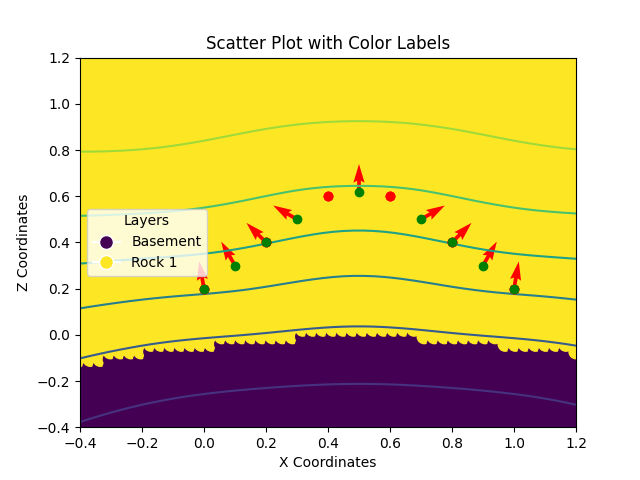
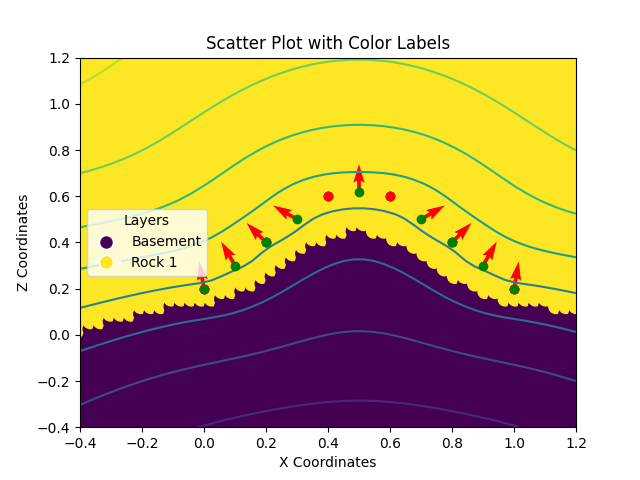
new- transformation not applied to gradient values

diff --git a/pyvista_gempy_local_anisotropy.py b/pyvista_gempy_local_anisotropy.py
@@ -307,7 +307,7 @@ class Gempy(grid):
         
         ## defining the dips position
         self.Position_G = self.op_coord["Positions"].to(self.dtype) # Location where Dips or gradient are given
-        self.Value_G    = self.op_coord["Values"].to(self.dtype) @ self.Transformation_matrix.T # Gx, Gy, ..., Gk are the componet of gradient available at the given location
+        self.Value_G    = self.op_coord["Values"].to(self.dtype)     # @ self.Transformation_matrix.T # Gx, Gy, ..., Gk are the componet of gradient available at the given location
        
         n= self.Position_G.shape[0] # Total number of points available for gradient or dips
         k = self.Position_G[0].shape[0] # Total number of component available for the gradient
@@ -953,7 +953,7 @@ def main():
     Transformation_matrix = torch.diag(torch.tensor([1,1,1,0.05],dtype=torch.float32))
 
     gp = Gempy("Gempy_test", 
-               extent=[-0.4,1.2,-0.4,1.2,-0.4,1.2, 0,10],
+               extent=[-0.4,1.2,-0.4,1.2,-0.4,1.2, 0,5],
                 resolution=[50, 50, 50, 2]
                )
 
@@ -998,19 +998,19 @@ def main():
     ]) / 1000, 
     
     "Values": torch.tensor([
-        [0.0, 0.0, 1.0, 3.0],       
+        [0.0, 0.0, 1.0, 0.30],       
         
-        [-0.866, 0.0, 0.5, 2.5],    
-        [ 0.866, 0.0, 0.5, 2.5],    
+        [-0.866, 0.0, 0.5, 0.25],    
+        [ 0.866, 0.0, 0.5, 0.25],    
         
-        [-0.707, 0.0, 0.707, 2.0],  
-        [ 0.707, 0.0, 0.707, 2.0], 
+        [-0.707, 0.0, 0.707, 0.20],  
+        [ 0.707, 0.0, 0.707, 0.20], 
         
-        [-0.5, 0.0, 0.866, 1.5],    
-        [ 0.5, 0.0, 0.866, 1.5],   
+        [-0.5, 0.0, 0.866, 0.15],    
+        [ 0.5, 0.0, 0.866, 0.15],   
         
-        [-0.174, 0.0, 0.985, 1.0],  
-        [ 0.174, 0.0, 0.985, 1.0]   
+        [-0.174, 0.0, 0.985, 0.10],  
+        [ 0.174, 0.0, 0.985, 0.10]   
     ])}
 
     gp.interface_data(interface_data)
@@ -1035,10 +1035,10 @@ def main():
     #########################################################################
 
     ##### FOR 2D matplotlib #####
-    # import time
-    # for t in [-0.5, 0, 0.5, .75, 1.0, 1.25, 1.5, 1.75, 2.0, 2.25, 2.5, 3, 3.5, 4,4.5]:
-    #     gp.plot_data_section(section={2:0.5, 4:t}, plot_scalar_field = True, plot_input_data=True)
-    #     time.sleep(1)
+    import time
+    for t in [-0.5, 0, 0.5, .75, 1.0, 1.25, 1.5, 1.75, 2.0, 2.25, 2.5, 3, 3.5, 4,4.5]:
+        gp.plot_data_section(section={2:0.5, 4:t}, plot_scalar_field = True, plot_input_data=True)
+        time.sleep(1)
 
 
     ##### FOR 3D matplotlib #####
@@ -1057,8 +1057,8 @@ def main():
     ########### show/unshow surface or interfaces using "only_surface_mode" argument
     ###############################################################
 
-    print("\nStarting Interactive Visualization...")
-    gp.plot_interactive_section(plot_input_data = True, only_surface_mode = False)
+    # print("\nStarting Interactive Visualization...")
+    # gp.plot_interactive_section(plot_input_data = True, only_surface_mode = False)
 
 
 if __name__ == "__main__":

diff --git a/Ex-4 Single flat layer compression by only using time gradients (Gt).py b/Ex-4 Single flat layer compression by only using time gradients (Gt).py
@@ -307,7 +307,7 @@ class Gempy(grid):
         
         ## defining the dips position
         self.Position_G = self.op_coord["Positions"].to(self.dtype) # Location where Dips or gradient are given
-        self.Value_G    = self.op_coord["Values"].to(self.dtype) @ self.Transformation_matrix.T # Gx, Gy, ..., Gk are the componet of gradient available at the given location
+        self.Value_G    = self.op_coord["Values"].to(self.dtype)    # @ self.Transformation_matrix.T # Gx, Gy, ..., Gk are the componet of gradient available at the given location
        
         n= self.Position_G.shape[0] # Total number of points available for gradient or dips
         k = self.Position_G[0].shape[0] # Total number of component available for the gradient
@@ -950,12 +950,12 @@ def main():
     
     ##################### EXAMPLE - 4 #######################################
     ################ Single flat layer compression by only using time gradient (Gt)  #########
-    ############ Just giving the rate at which flat surface moves (upwards at fold hinge - center of fold and donwards at edges) ###########
+    ############ Just giving the rate at which points on the flat surface moves (upwards at fold hinge - center of fold) and (donwards at edges of flat surface) ###########
 
     Transformation_matrix = torch.diag(torch.tensor([1,1,1,0.05],dtype=torch.float32))
 
     gp = Gempy("Gempy_test", 
-               extent=[-0.2,2.2,-0.2,2.2,-0.2,2.2, 0,10],
+               extent=[-0.2,2.2,-0.2,2.2,-0.2,2.2, 0,5],
                 resolution=[50, 50, 50, 2]
                )
 
@@ -1050,19 +1050,19 @@ def main():
 
 
     ## ANTIFORM
-    [0.0, 0.0, 1.0,-3.0], # I want center of layer to move fast in up direction
+    [0.0, 0.0, 1.0,-.30], # I want center of layer to move fast in up direction
 
-    [0.0, 0.0, 1.0,-2.5],
-    [ 0.0 ,0.0, 1.0,-2.5],
+    [0.0, 0.0, 1.0,-0.25],
+    [ 0.0 ,0.0, 1.0,-0.25],
 
-    [0., 0.0, 1.,-2.0],
-    [ 0., 0.0, 1.0,-2.0],
+    [0., 0.0, 1.0,-0.20],
+    [ 0., 0.0, 1.0,-0.20],
 
-    [0., 0.0, 1.0,-1.5],
-    [ 0., 0.0, 1.0,-1.5],
+    [0., 0.0, 1.0,-0.15],
+    [ 0., 0.0, 1.0,-0.15],
 
-    [0., 0.0, 1.0, 3.0], # I want edges of layer to move fast in down direction
-    [ 0., 0.0, 1.0, 3.0],
+    [0., 0.0, 1.0, 0.30], # I want edges of layer to move fast in down direction
+    [ 0., 0.0, 1.0, 0.30],
 
 
 
@@ -1071,19 +1071,19 @@ def main():
     ### SYNFORM
 
 
-    [0.0, 0.0, 1.0,3.0],
+    [0.0, 0.0, 1.0,.30], 
 
-    [0.0, 0.0, 1.0,2.5],
-    [ 0.0 ,0.0, 1.0,2.5],
+    [0.0, 0.0, 1.0,0.25],
+    [ 0.0 ,0.0, 1.0,0.25],
 
-    [0., 0.0, 1.,2.0],
-    [ 0., 0.0, 1.0,2.0],
+    [0., 0.0, 1.0,0.20],
+    [ 0., 0.0, 1.0,0.20],
 
-    [0., 0.0, 1.0,1.5],
-    [ 0., 0.0, 1.0,1.5],
+    [0., 0.0, 1.0,0.15],
+    [ 0., 0.0, 1.0,0.15],
 
-    [0., 0.0, 1.0,-3.0],
-    [ 0., 0.0, 1.0,-3.0],
+    [0., 0.0, 1.0, -0.30], 
+    [ 0., 0.0, 1.0, -0.30],
 ])}
 
     gp.interface_data(interface_data)

diff --git a/Ex-2  Flattening of 2 isoclinal (same Gx, Gz) folds - Thickness conserved.py b/Ex-2  Flattening of 2 isoclinal (same Gx, Gz) folds - Thickness conserved.py
@@ -307,7 +307,7 @@ class Gempy(grid):
         
         ## defining the dips position
         self.Position_G = self.op_coord["Positions"].to(self.dtype) # Location where Dips or gradient are given
-        self.Value_G    = self.op_coord["Values"].to(self.dtype) @ self.Transformation_matrix.T # Gx, Gy, ..., Gk are the componet of gradient available at the given location
+        self.Value_G    = self.op_coord["Values"].to(self.dtype)    # @ self.Transformation_matrix.T # Gx, Gy, ..., Gk are the componet of gradient available at the given location
        
         n= self.Position_G.shape[0] # Total number of points available for gradient or dips
         k = self.Position_G[0].shape[0] # Total number of component available for the gradient
@@ -957,7 +957,7 @@ def main():
     Transformation_matrix = torch.diag(torch.tensor([1,1,1,0.05],dtype=torch.float32))
 
     gp = Gempy("Gempy_test", 
-               extent=[-0.4,1.2,-0.4,1.2,-0.4,1.2, 0,10],
+               extent=[-0.4,1.2,-0.4,1.2,-0.4,1.2, 0,5],
                 resolution=[50, 50, 50, 2]
                )
 
@@ -1052,35 +1052,35 @@ def main():
     ]) / 1000, 
     
     "Values": torch.tensor([
-        [0.0, 0.0, 1.0, 3.0],       # Fold-1 (bottom) Hinge going down faster in time because of high Gz
+        [0.0, 0.0, 1.0, 0.30],       # Fold-1 (bottom) Hinge going down faster in time because of high Gz
         
-        [-0.866, 0.0, 0.5, 2.5],    
-        [ 0.866, 0.0, 0.5, 2.5],    
+        [-0.866, 0.0, 0.5, 0.25],    
+        [ 0.866, 0.0, 0.5, 0.25],    
         
-        [-0.707, 0.0, 0.707, 2.0],  
-        [ 0.707, 0.0, 0.707, 2.0], 
+        [-0.707, 0.0, 0.707, 0.20],  
+        [ 0.707, 0.0, 0.707, 0.20], 
         
-        [-0.5, 0.0, 0.866, 1.5],    
-        [ 0.5, 0.0, 0.866, 1.5],   
+        [-0.5, 0.0, 0.866, 0.15],    
+        [ 0.5, 0.0, 0.866, 0.15],   
         
-        [-0.174, 0.0, 0.985, 1.0],  
-        [ 0.174, 0.0, 0.985, 1.0],  
+        [-0.174, 0.0, 0.985, 0.10],  
+        [ 0.174, 0.0, 0.985, 0.10],  
 
 
 
-        [0.0, 0.0, 1.0, 3.0],       # Fold-2 (top)  
+        [0.0, 0.0, 1.0, 0.30],       # Fold-2 (top)  
         
-        [-0.866, 0.0, 0.5, 2.5],    
-        [ 0.866, 0.0, 0.5, 2.5],    
+        [-0.866, 0.0, 0.5, 0.25],    
+        [ 0.866, 0.0, 0.5, 0.25],    
         
-        [-0.707, 0.0, 0.707, 2.0],  
-        [ 0.707, 0.0, 0.707, 2.0], 
+        [-0.707, 0.0, 0.707, 0.20],  
+        [ 0.707, 0.0, 0.707, 0.20], 
         
-        [-0.5, 0.0, 0.866, 1.5],    
-        [ 0.5, 0.0, 0.866, 1.5],   
+        [-0.5, 0.0, 0.866, 0.15],    
+        [ 0.5, 0.0, 0.866, 0.15],   
         
-        [-0.174, 0.0, 0.985, 1.0],  
-        [ 0.174, 0.0, 0.985, 1.0]   
+        [-0.174, 0.0, 0.985, 0.10],  
+        [ 0.174, 0.0, 0.985, 0.10],   
     ])}
 
 

diff --git a/Ex-3  Flattening of 2 isoclinal fold with different Gt (time gradient).py b/Ex-3  Flattening of 2 isoclinal fold with different Gt (time gradient).py
@@ -307,7 +307,7 @@ class Gempy(grid):
         
         ## defining the dips position
         self.Position_G = self.op_coord["Positions"].to(self.dtype) # Location where Dips or gradient are given
-        self.Value_G    = self.op_coord["Values"].to(self.dtype) @ self.Transformation_matrix.T # Gx, Gy, ..., Gk are the componet of gradient available at the given location
+        self.Value_G    = self.op_coord["Values"].to(self.dtype)    # @ self.Transformation_matrix.T # Gx, Gy, ..., Gk are the componet of gradient available at the given location
        
         n= self.Position_G.shape[0] # Total number of points available for gradient or dips
         k = self.Position_G[0].shape[0] # Total number of component available for the gradient
@@ -958,7 +958,7 @@ def main():
     Transformation_matrix = torch.diag(torch.tensor([1,1,1,0.05],dtype=torch.float32))
 
     gp = Gempy("Gempy_test", 
-               extent=[-0.4,1.2,-0.4,1.2,-0.4,1.2, 0,10],
+               extent=[-0.4,1.2,-0.4,1.2,-0.4,1.2, 0,5],
                 resolution=[50, 50, 50, 2]
                )
 
@@ -1053,35 +1053,35 @@ def main():
     ]) / 1000, 
     
     "Values": torch.tensor([
-[0.0, 0.0, 1.0, 3.0], # Fold-1 (bottom) 
+[0.0, 0.0, 1.0, 0.30], # Fold-1 (bottom) 
 
-[-0.866, 0.0, 0.5, 2.5],
-[ 0.866, 0.0, 0.5, 2.5],
+[-0.866, 0.0, 0.5, 0.25],
+[ 0.866, 0.0, 0.5, 0.25],
 
-[-0.707, 0.0, 0.707, 2.0],
-[ 0.707, 0.0, 0.707, 2.0],
+[-0.707, 0.0, 0.707, 0.20],
+[ 0.707, 0.0, 0.707, 0.20],
 
-[-0.5, 0.0, 0.866, 1.5],
-[ 0.5, 0.0, 0.866, 1.5],
+[-0.5, 0.0, 0.866, 0.15],
+[ 0.5, 0.0, 0.866, 0.15],
 
-[-0.174, 0.0, 0.985, 1.0],
-[ 0.174, 0.0, 0.985, 1.0],
+[-0.174, 0.0, 0.985, 0.10],
+[ 0.174, 0.0, 0.985, 0.10],
 
 
 
-[0.0, 0.0, 1.0, 6.0], # Fold-2 (top) 3 units high Gt then Fold -1
+[0.0, 0.0, 1.0, 0.60], # Fold-2 (top) 3 units high Gt then Fold -1
 
-[-0.866, 0.0, 0.5, 5.5],
-[ 0.866, 0.0, 0.5, 5.5],
+[-0.866, 0.0, 0.5, 0.55],
+[ 0.866, 0.0, 0.5, 0.55],
 
-[-0.707, 0.0, 0.707, 5.0],
-[ 0.707, 0.0, 0.707, 5.0],
+[-0.707, 0.0, 0.707, 0.50],
+[ 0.707, 0.0, 0.707, 0.50],
 
-[-0.5, 0.0, 0.866, 4.5],
-[ 0.5, 0.0, 0.866, 4.5],
+[-0.5, 0.0, 0.866, 0.45],
+[ 0.5, 0.0, 0.866, 0.45],
 
-[-0.174, 0.0, 0.985, 4.0],
-[ 0.174, 0.0, 0.985, 4.0]
+[-0.174, 0.0, 0.985, 0.40],
+[ 0.174, 0.0, 0.985, 0.40]
 ])}
 
 

diff --git a/Ex-1 Flattening of a fold with diff Gt (time gradient).py b/Ex-1 Flattening of a fold with diff Gt (time gradient).py
@@ -307,7 +307,7 @@ class Gempy(grid):
         
         ## defining the dips position
         self.Position_G = self.op_coord["Positions"].to(self.dtype) # Location where Dips or gradient are given
-        self.Value_G    = self.op_coord["Values"].to(self.dtype) @ self.Transformation_matrix.T # Gx, Gy, ..., Gk are the componet of gradient available at the given location
+        self.Value_G    = self.op_coord["Values"].to(self.dtype)    # @ self.Transformation_matrix.T # Gx, Gy, ..., Gk are the componet of gradient available at the given location
        
         n= self.Position_G.shape[0] # Total number of points available for gradient or dips
         k = self.Position_G[0].shape[0] # Total number of component available for the gradient
@@ -956,7 +956,7 @@ def main():
     Transformation_matrix = torch.diag(torch.tensor([1,1,1,0.05],dtype=torch.float32))
 
     gp = Gempy("Gempy_test", 
-               extent=[-0.4,1.2,-0.4,1.2,-0.4,1.2, 0,10],
+               extent=[-0.4,1.2,-0.4,1.2,-0.4,1.2, 0,5],
                 resolution=[50, 50, 50, 2]
                )
 
@@ -1001,19 +1001,19 @@ def main():
     ]) / 1000, 
     
     "Values": torch.tensor([
-        [0.0, 0.0, 1.0, 3.0],       
+        [0.0, 0.0, 1.0, 0.30],       
         
-        [-0.866, 0.0, 0.5, 2.5],    
-        [ 0.866, 0.0, 0.5, 2.5],    
+        [-0.866, 0.0, 0.5, 0.25],    
+        [ 0.866, 0.0, 0.5, 0.25],    
         
-        [-0.707, 0.0, 0.707, 2.0],  
-        [ 0.707, 0.0, 0.707, 2.0], 
+        [-0.707, 0.0, 0.707, 0.20],  
+        [ 0.707, 0.0, 0.707, 0.20], 
         
-        [-0.5, 0.0, 0.866, 1.5],    
-        [ 0.5, 0.0, 0.866, 1.5],   
+        [-0.5, 0.0, 0.866, 0.15],    
+        [ 0.5, 0.0, 0.866, 0.15],   
         
-        [-0.174, 0.0, 0.985, 1.0],  
-        [ 0.174, 0.0, 0.985, 1.0]   
+        [-0.174, 0.0, 0.985, 0.10],  
+        [ 0.174, 0.0, 0.985, 0.10]   
     ])}
 
     gp.interface_data(interface_data)

diff --git a/gempy_local_anisotropy.py b/gempy_local_anisotropy.py
@@ -299,7 +299,7 @@ class Gempy(grid):
         
         ## defining the dips position
         self.Position_G = self.op_coord["Positions"].to(self.dtype) # Location where Dips or gradient are given
-        self.Value_G    = self.op_coord["Values"].to(self.dtype) @ self.Transformation_matrix.T # Gx, Gy, ..., Gk are the componet of gradient available at the given location
+        self.Value_G    = self.op_coord["Values"].to(self.dtype)    # @ self.Transformation_matrix.T # Gx, Gy, ..., Gk are the componet of gradient available at the given location
        
         n= self.Position_G.shape[0] # Total number of points available for gradient or dips
         k = self.Position_G[0].shape[0] # Total number of component available for the gradient
